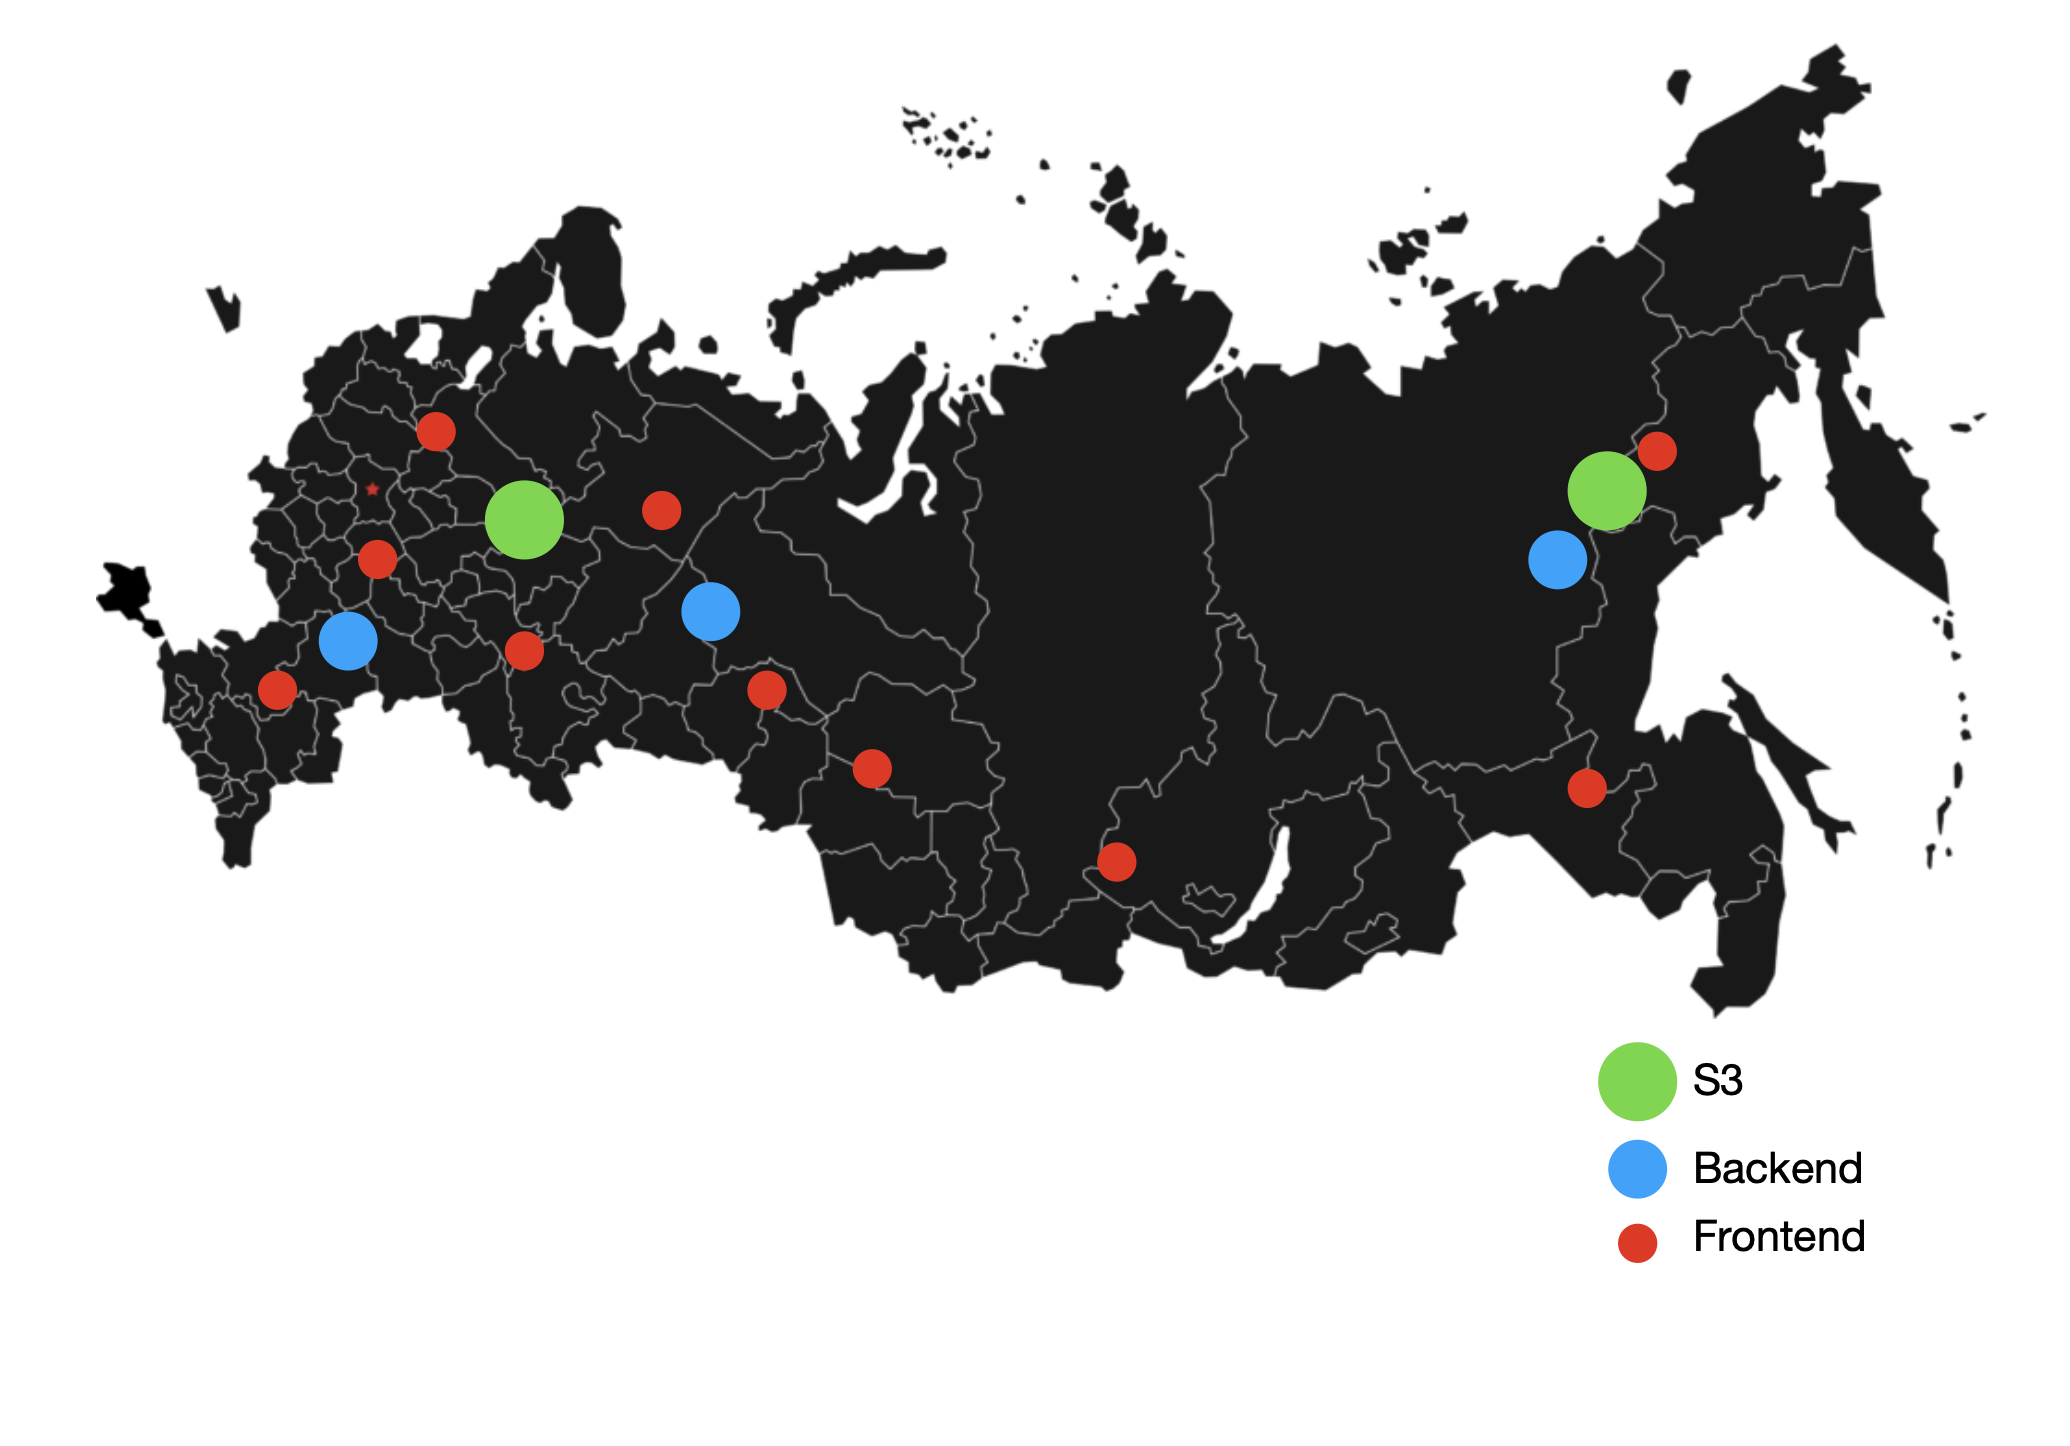
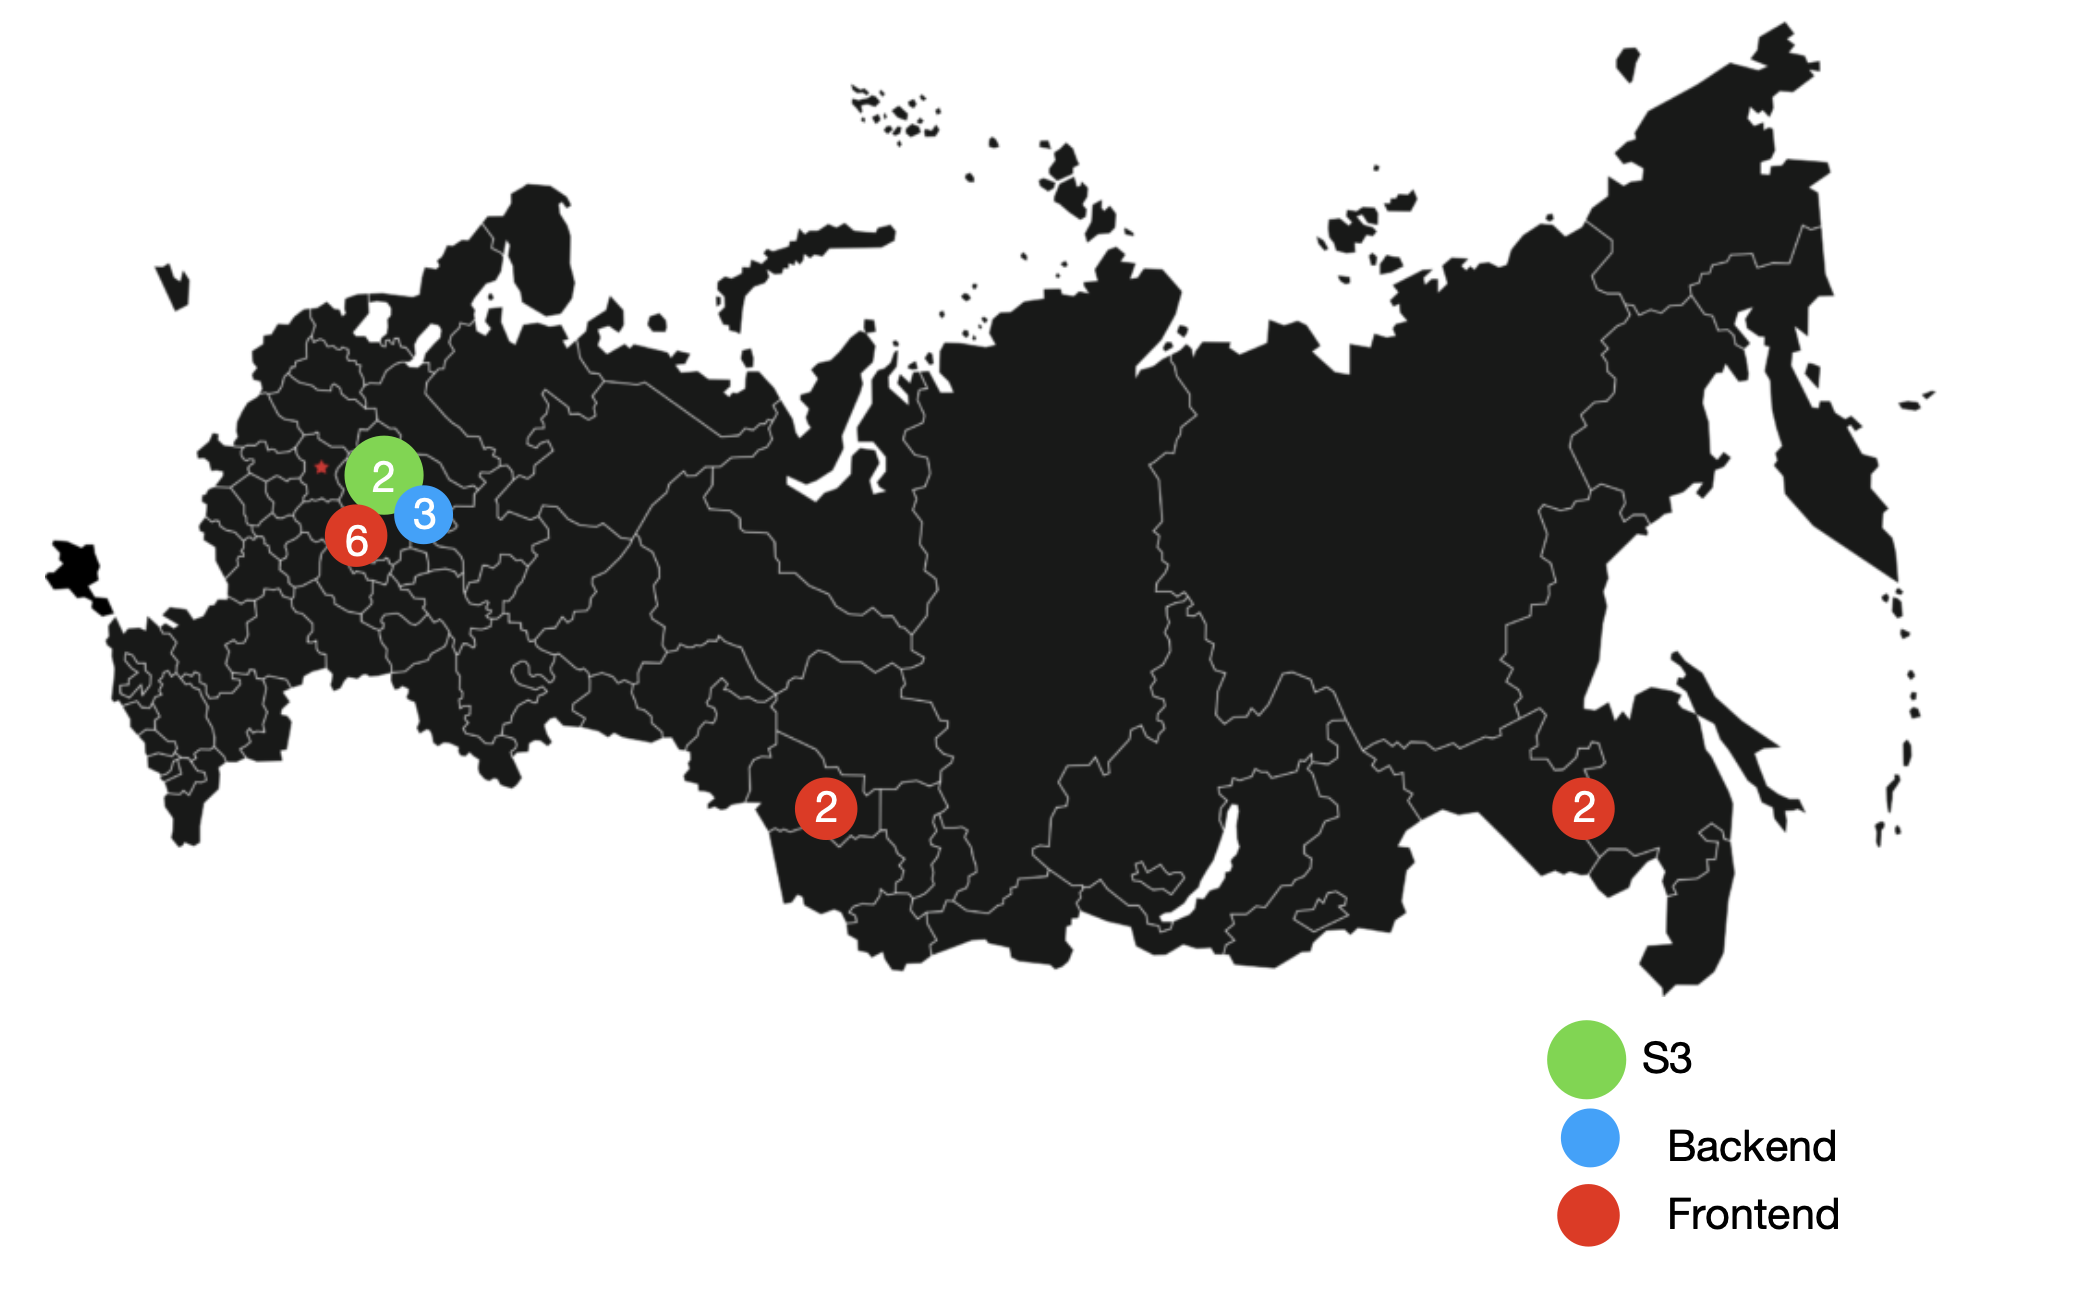
Более детальная структура физического хранения данных, изменена балансировка нагрузки, расположение серверов

diff --git a/README3.md b/README3.md
@@ -6,7 +6,14 @@
 ![Server locations](./servers.png "Расположение серверов")
 
 Сервера расположены вблизи сетевых магистралей, а также в местах с высокой
-плотностью населения. Значительная часть серверов расположена около Москвы.
+плотностью населения. Сервера Backend и S3 хранилища расположены в одном месте
+с целью повышения надежности и скорости работы приложения.
+
+Вместе с Backend серверами, недалеко от москвы, расположены 6 фронтенд серверов,
+которые покрывают нагрузку из Москвы и ее окрестностей.
+
+Для понижения задержки при трансляции видео и отдаче статики, в окрестностях
+Новосибирска и Хабаровска расположены еще 2 пары фронтенд серверов.
 
 В качестве провайдера стоит выбрать Ростелеком или ТТК, поскольку они
 имеют наибольшее покрытие в РФ
@@ -25,7 +32,12 @@
 Остальной внутрипроектный трафик также будет балансироваться при помощи 
 L7 балансировщика.
 
-## обеспечение отказоустойчивости
+Фронтенд сервера при помощи кворума решают, упал ли сервер. Если
+у более чем половины серверов нет связи с сервером (пинг выполняется раз в минуту),
+то сервер считается упавшим, и адрес сервера убирается из конфига DNS. После чего 
+требуется вмешательство человека. 
+
+## Обеспечение отказоустойчивости
 
 Необходимо свести к минимуму вмешательство человека в систему. На этапе разработки
 это достигается за счет автоматизации процесса разработки и тестирования:
